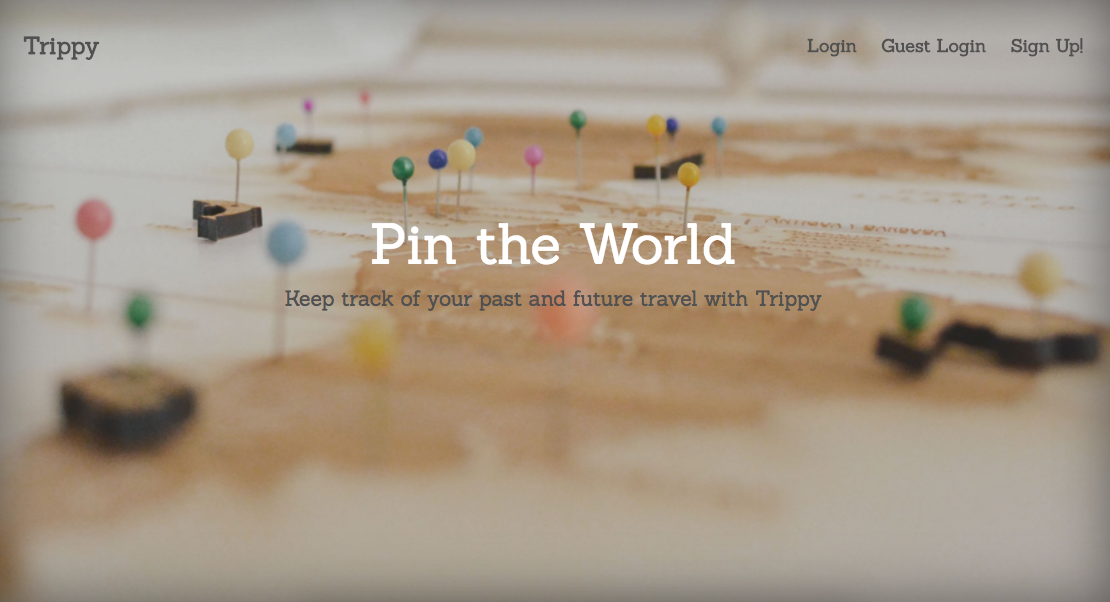
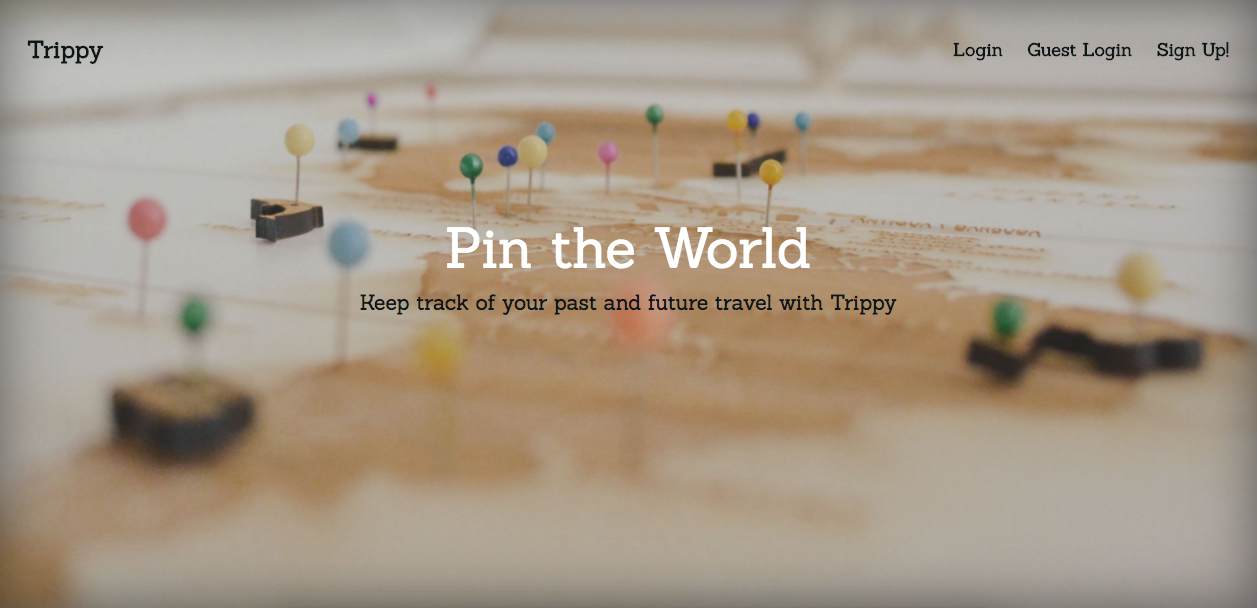
Adding ReadME and updated screenshots. TODO: Upload gifs to ReadME.

diff --git a/README.md b/README.md
@@ -1,0 +1,121 @@
+
+
+Trippy is a travel management application that allows users to keep track of their past and future travel destinations. This app allows users to customize a map of the world with pins that represent cities. A user can add, edit or remove a pin, and can designate what type of pin to use for a city. Color-coded pins help the user distinguish between a city a user wants to visit, has visited and wants to go back, or has visited but never wants to return. Trippy --the app that gives globetrotters a high-level view of their travels.🌍
+
+
+# Trippy #
+
+![Trippy Landing Page](/static/assets/landing.png)
+
+## Table of Contents
+
+* [Tech Stack](#tech-stack)
+* [Features](#features)
+* [Setup/Installation](#installation)
+* [To-Do](#future)
+* [License](#license)
+
+## <a name="tech-stack"></a>Tech Stack
+
+__Frontend:__ HTML5, Javascript💖, jQuery, Bootstrap <br/>
+__Backend:__ Python, Flask, PostgreSQL, SQLAlchemy, bcrypt <br/>
+__APIs:__ Google Maps, Google Places <br/>
+
+## <a name="features"></a>Features 📽
+
+Search for city to add pin to map (green: wish list, blue: want to go back, red: never going back). Edit and remove pin. 
+User account registration not required.
+  
+![Logged out](/static/assets/signup.png)
+![Login](/static/assets/login.png)
+<br/><br/><br/>
+Register or login to add a pin.
+  
+![Add Pin](/static/assets/autocomplete.png)
+![City Added](/static/assets/cityadded.png)
+<br/><br/><br/>
+Add and pins from your account.
+  
+![Edit Pin](/static/img/_readme-img/editpin.png)
+<br/><br/><br/>
+Edit and remove pins from your map.
+
+
+####Requirements:
+
+- Install PostgreSQL
+- Python 2.7
+- Google Maps and Google Places API keys
+
+To have this app running on your local computer, please follow the below steps:
+
+Clone repository:
+```
+$ git clone https://github.com/nataliaiwona/trippy-hackbright-project.git
+```
+Create a virtual environment:
+```
+$ virtualenv env
+```
+Activate the virtual environment:
+```
+$ source env/bin/activate
+```
+Install dependencies:
+```
+$ pip install -r requirements.txt
+```
+Get your own secret key for [Google Maps](https://developers.google.com/maps/documentation/javascript/get-api-key) and [Google Places](https://developers.google.com/places/web-service/get-api-key). Save them to a file `secrets.sh`. Your file should look something like this:
+```
+APP_KEY = 'xyz'
+GOOGLE_MAPS_API_KEY = 'abc'
+GOOGLE_PLACES_API_KEY = 'abc'
+
+```
+Create database 'travels'.
+```
+$ createdb travels
+```
+Create your database tables and seed example data.
+```
+$ python model.py
+```
+Run the app from the command line.
+```
+$ python server.py
+```
+If you want to use SQLAlchemy to query the database, run in interactive mode
+```
+$ python -i model.py
+```
+
+## <a name="future"></a>TODO✨
+* Add notes feature to each city
+* Add ability for users to upload photos to city
+* Add year visited and number of visits, create timeline of travels
+* Filter by type of pin
+* Allow map-sharing
+* Add another API to give recommendations based on city (ex Yelp API)
+
+## <a name="license"></a>License
+
+The MIT License (MIT)
+Copyright (c) 2016 [Natalia Brokaw](https://www.linkedin.com/in/natalia-brokaw)
+
+Permission is hereby granted, free of charge, to any person obtaining a copy of
+this software and associated documentation files (the "Software"), to deal in
+the Software without restriction, including without limitation the rights to
+use, copy, modify, merge, publish, distribute, sublicense, and/or sell copies
+of the Software, and to permit persons to whom the Software is furnished to do
+so, subject to the following conditions:
+
+The above copyright notice and this permission notice shall be included in all
+copies or substantial portions of the Software.
+
+THE SOFTWARE IS PROVIDED "AS IS", WITHOUT WARRANTY OF ANY KIND, EXPRESS OR
+IMPLIED, INCLUDING BUT NOT LIMITED TO THE WARRANTIES OF MERCHANTABILITY,
+FITNESS FOR A PARTICULAR PURPOSE AND NONINFRINGEMENT. IN NO EVENT SHALL THE
+AUTHORS OR COPYRIGHT HOLDERS BE LIABLE FOR ANY CLAIM, DAMAGES OR OTHER
+LIABILITY, WHETHER IN AN ACTION OF CONTRACT, TORT OR OTHERWISE, ARISING FROM,
+OUT OF OR IN CONNECTION WITH THE SOFTWARE OR THE USE OR OTHER DEALINGS IN THE
+SOFTWARE.
